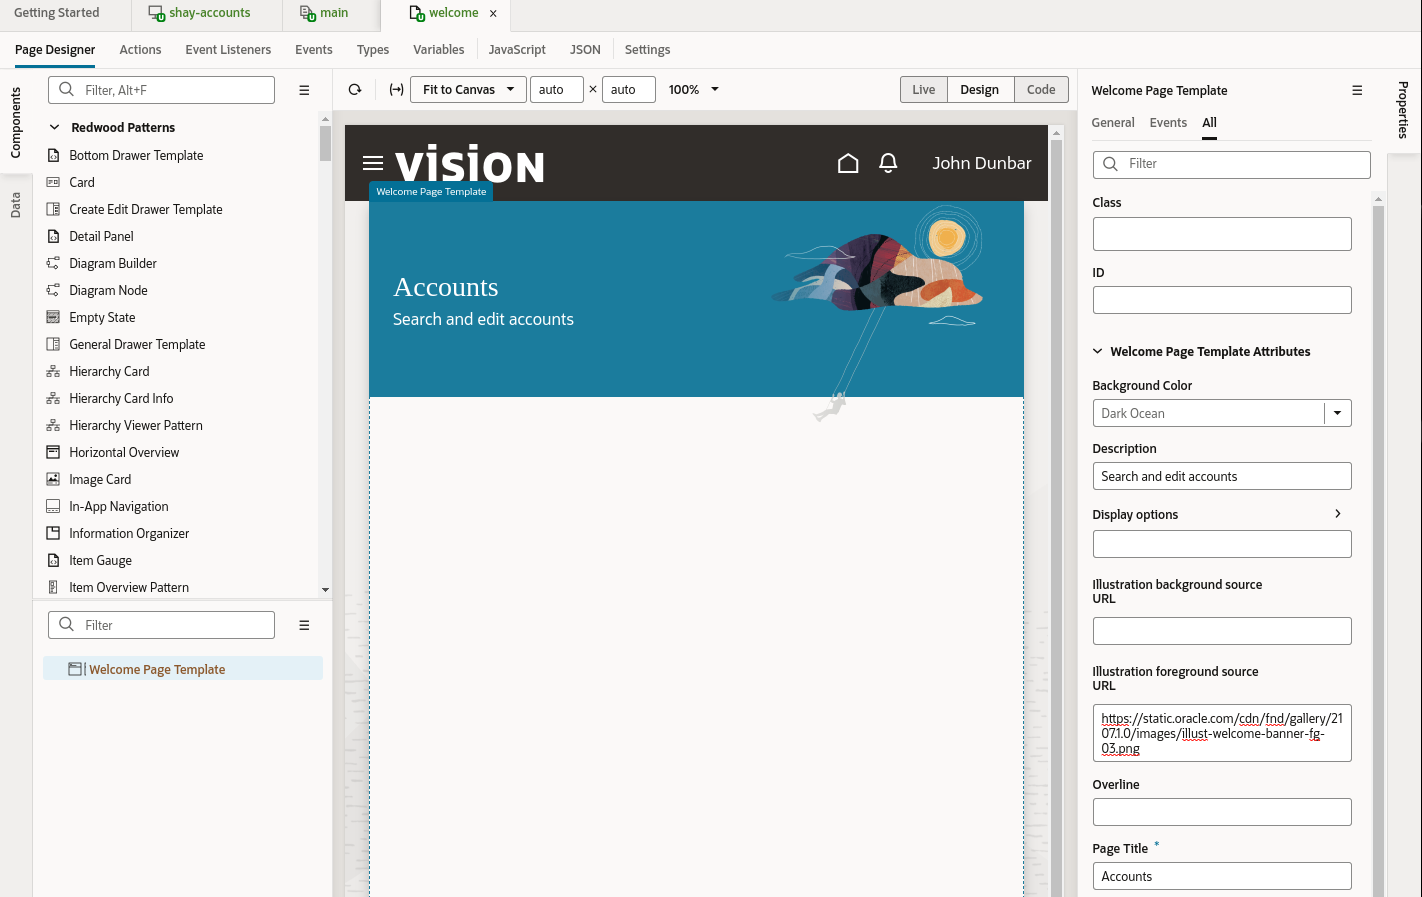
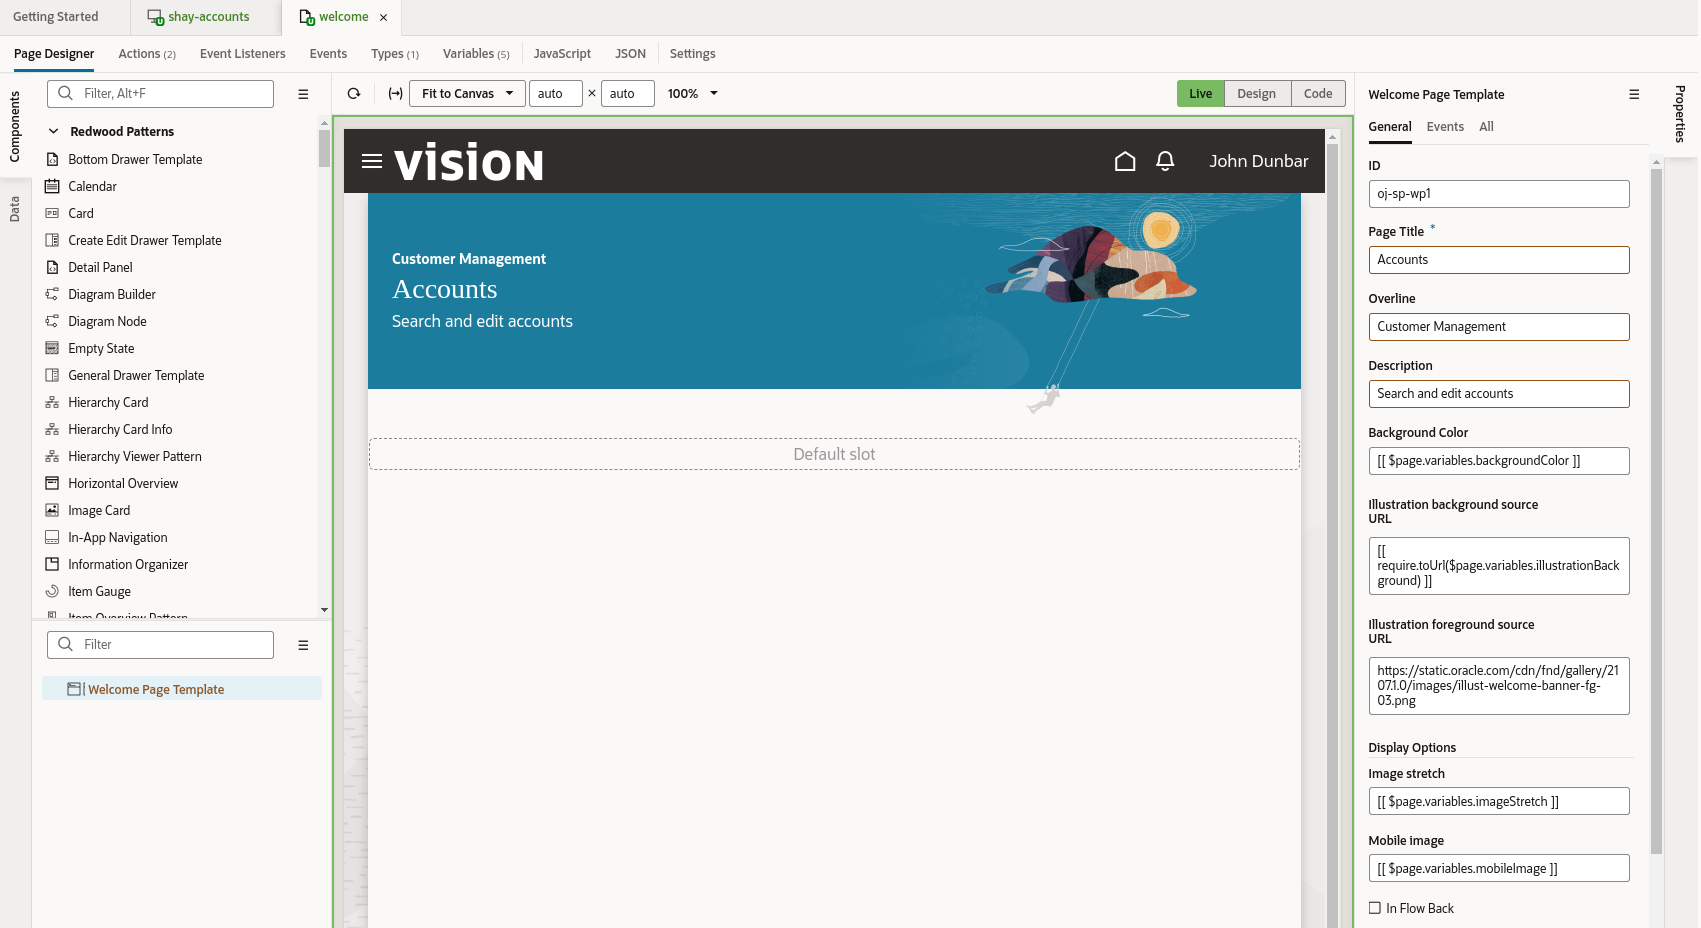
Changes to work around a couple bugs in the Redwood template.

Changed region(s): [[0.0, 0.0, 0.9902, 1.0], [0.9592, 0.0936, 0.9902, 0.1561], [0.9902, 0.0312, 1.0, 0.0624]]

diff --git a/redwood-extensions/saasservice/saasservice.md b/redwood-extensions/saasservice/saasservice.md
@@ -50,19 +50,20 @@ Up until now we've worked on the UI (front end) of your application, but now it'
 
 1. In the Designer, click the **Data** tab on the left and expand the Services node until you can see the **accounts** service. (If you don't see any services, click the Refresh icon next to the Filter box at the top of the pane.)
 	  ![Data Palette](images/datapalette.png)
-2. Drag and drop the accounts service to the Structure pane and drop it on the **Collection Container**:
-	  ![Drag service](images/drag1.png)
+2. Drag and drop the accounts service to the Structure pane and drop it on the **Welcome Page Template**:
+	  ![Drag service](images/slot.png)
+3. In the slots pop-up, select **Default**:
 
 	VB Studio can display data in many different formats, including various types of forms that let your users modify data. In this case we just want to display data in a table.
 
-3. In the **Render as** pop-up, choose **Table** (not Table Dynamic, the first option):
-	  ![Drop as table](images/table.png)
-4. Choose the first endpoint, **getMany**, which shows the top object (an account):
+4. In the **Render as** pop-up, choose **Table** (not Table Dynamic, the first option):
+	  ![Drop as table](images/dropaccounts.png)
+5. Choose the first endpoint, **getMany**, which shows the top object (an account):
 	  ![Get Many endpoints](images/getmany.png)
 
 	The Add Data dialog displays all the fields that are available for the accounts business object&mdash;quite a long list!
 
-5. Using the filter field at the top, locate each of these fields, then click each field name to add it as a column in our table:
+6. Using the filter field at the top, locate each of these fields, then click each field name to add it as a column in our table:
 	* OrganizationName
 	* CEOName
 	* CurrentFiscalYearPotentialRevenueAmount
@@ -71,44 +72,44 @@ Up until now we've worked on the UI (front end) of your application, but now it'
 	Your screen should look like this:
 	  ![Fields selection](images/fields2.png)
 
-6. Click **Next**.
+7. Click **Next**.
 
 	We want the user to be able to filter the list of accounts, so we must define a *filterCriterion* for the REST endpoint.
 
-7. Click **FilterCriterion** on the right, under Target.
+8. Click **FilterCriterion** on the right, under Target.
 	This displays the filter builder at the bottom of the dialog:
 	  ![Filter definition](images/filtercriterion.png)
-8. In the filter builder, click **Click to add condition**.
-9. Click in the **Attribute** field, then start typing **Orga ...** until you can choose **OrganizationName**:
+9. In the filter builder, click **Click to add condition**.
+10. Click in the **Attribute** field, then start typing **Orga ...** until you can choose **OrganizationName**:
 	  ![Search box](images/name.png)
 
-10. Keep the operator as **contains ($co)**. In the **Attribute** field on the right, locate the search variable you created by typing **searchString**, which will add **$variables.searchString** to this field:
+11. Keep the operator as **contains ($co)**. In the **Attribute** field on the right, locate the search variable you created by typing **searchString**, which will add **$variables.searchString** to this field:
 			  ![search criteria](images/search.png)
 
 
-11. Click **Done**.  Your screen should look like this: 			
+12. Click **Done**.  Your screen should look like this: 			
 					  ![Final result](images/condition.png)
 
 	The filter we just built now essentially says: If the organization name contains the user's search string (that is, the variable name), then filter the data in the table to show that row.
 
-12. Click **Finish** to close the dialog.
+13. Click **Finish** to close the dialog.
 
 In a moment we'll see that a table with the selected fields has been added to your page. The data for this table will be fetched live from Oracle SaaS using the service connection we defined in this lab.
 
 To leverage the service's pagination capabilities (as opposed to fetching all the records available on start up), let's add a scroll policy to the table. While we can do this by setting the property directly in the property inspector, we'll show you that you can also directly modify your application at the code level.
 
-13. Switch to Code view by clicking **Code** button at the top of the preview:
+14. Switch to Code view by clicking **Code** button at the top of the preview:
 					  ![Code view](images/codeview.png)
-14. Locate the line that starts with <oj-table.., which is the definition for the table.
+15. Locate the line that starts with <oj-table.., which is the definition for the table.
 
 	There's already a default scroll policy here, but we're going to add another one.
 
-15. Position your cursor in the space right after <oj table and type **sc**:
+16. Position your cursor in the space right after <oj table and type **sc**:
 					  ![code insight](images/scrollpolicy.png)
 
 	Notice how VB Studio's code completion feature helps you choose the right property.
 
-16. Choose **scroll-policy-options.scroller**. For the attribute, use **"html"**:
+17. Choose **scroll-policy-options.scroller**. For the attribute, use **"html"**:
 											  ![html code](images/html.png)
 
 	  The code for this line should now look similar to this:
@@ -121,9 +122,9 @@ P.S. If setting this in code didn't work, go to the property inspector for the t
 					  ![scroller property](images/scroller.png)
 
 
-17. Click **Design** so we can see the resulting table with data fetched into it. We can take an even closer look at the app by using the Preview feature.  
+18. Click **Design** so we can see the resulting table with data fetched into it. We can take an even closer look at the app by using the Preview feature.  
 
-18. In the Designer's header, click **Preview** in the top right:
+19. In the Designer's header, click **Preview** in the top right:
 											  ![Preview button](images/preview.png)
 
 	This opens a new tab in your browser where you can see your running app, complete with our new table.

diff --git a/redwood-extensions/welcome/welcome.md b/redwood-extensions/welcome/welcome.md
@@ -98,10 +98,11 @@ In the **Page Templates** window you will see a page named **Welcome Page Templa
 
 | # | Property | Value |
 | --- | --- | --- |
-| 1 | Background Color | Choose your preferred color  |
-| 2 | Description| **Search and edit accounts** |
-| 3 | Illustration foreground source URL | https://static.oracle.com/cdn/fnd/gallery/2107.1.0/images/illust-welcome-banner-fg-03.png |
-| 4 |Page Title | **Accounts** |
+| 1 | Page Title | **Accounts** |
+| 2 | Overline | **Customer Management** |
+| 3 | Description| **Search and edit accounts** |
+| 4 | Background Color | Choose your preferred color (dark-ocean, dark-pine, dark-lilac, dark-teal, dark-rose, dark-pebble, dark-slate, dark-plum, dark-sienna, auto)  |
+| 5 | Illustration foreground source URL | https://static.oracle.com/cdn/fnd/gallery/2107.1.0/images/illust-welcome-banner-fg-03.png |
 {: title="Template Properties"}
 
 Your screen should look like this:
@@ -134,22 +135,6 @@ In the next lab, we'll add some more useful components to the page.
   ![Variable settings](images/variablesettings.png)
 
 The Value field in the Properties pane now contains a reference to our new variable.
-
-## Task 5: Add a Collection Container
-
-In this task we'll add a container to the page, which will later hold some data we'll get from Oracle Fusion Cloud Applications.
-
-1. In the Components palette's search box type **collection**, which will locate a component called **Collection Container**.
-2. Drag this component to the Structure pane and drop it on top of the Welcome Page template:
-  ![Collection component](images/collection.png)
-3. In the slots pop-up, select **Default**:
-  ![Default slot](images/slot.png)
-The layout of our first page is now ready.  Our next step is to add some data to the page from Oracle Fusion Cloud Apps.
-
-Notice how all of our design tasks so far have been done with simple drag and drop functionality and setting properties. This visual development approach is key to the productivity that Visual Builder Studio provides. If you prefer to work in code, however, you can always do so by clicking the Code button right above where the page preview is displayed. Any modifications you make to your page's HTML code while in Code mode are automatically reflected in Design mode, should you choose to return to it.
-
-At this point your screen should look like this:
-  ![Completed page](images/complete.png)
 
 Let's move on to the next lab, where we'll learn how to get some data from Oracle SaaS onto the page.
 
